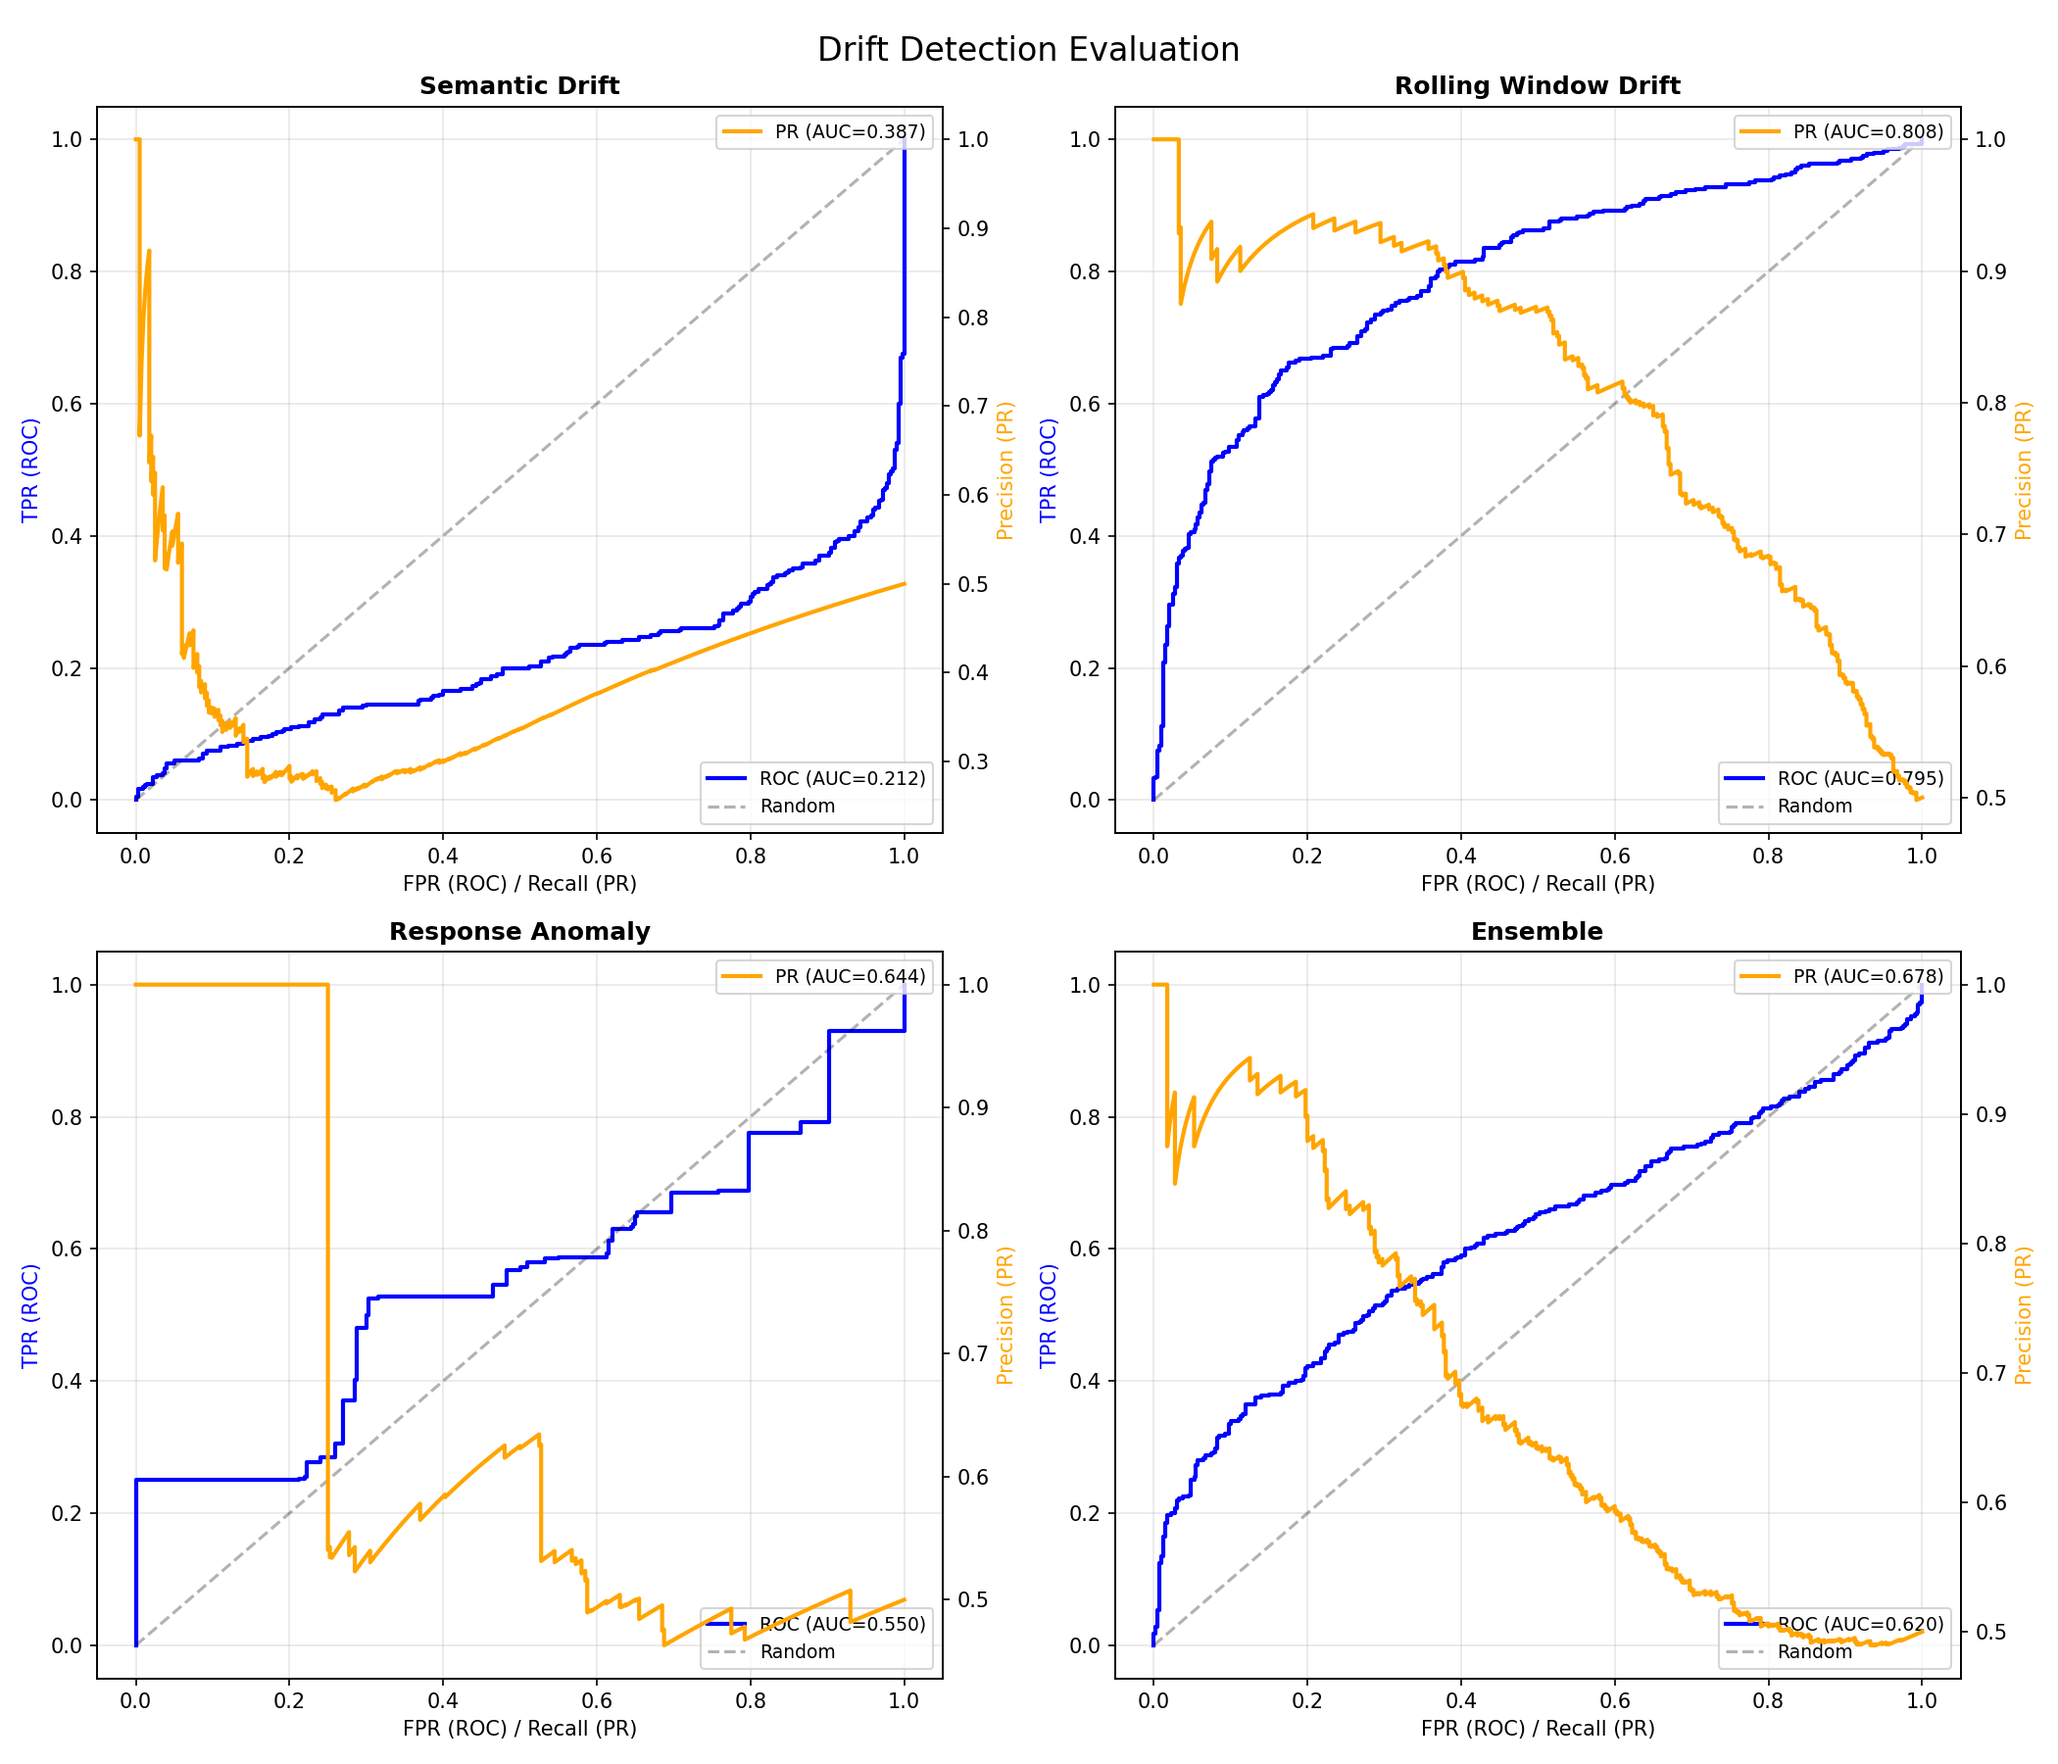
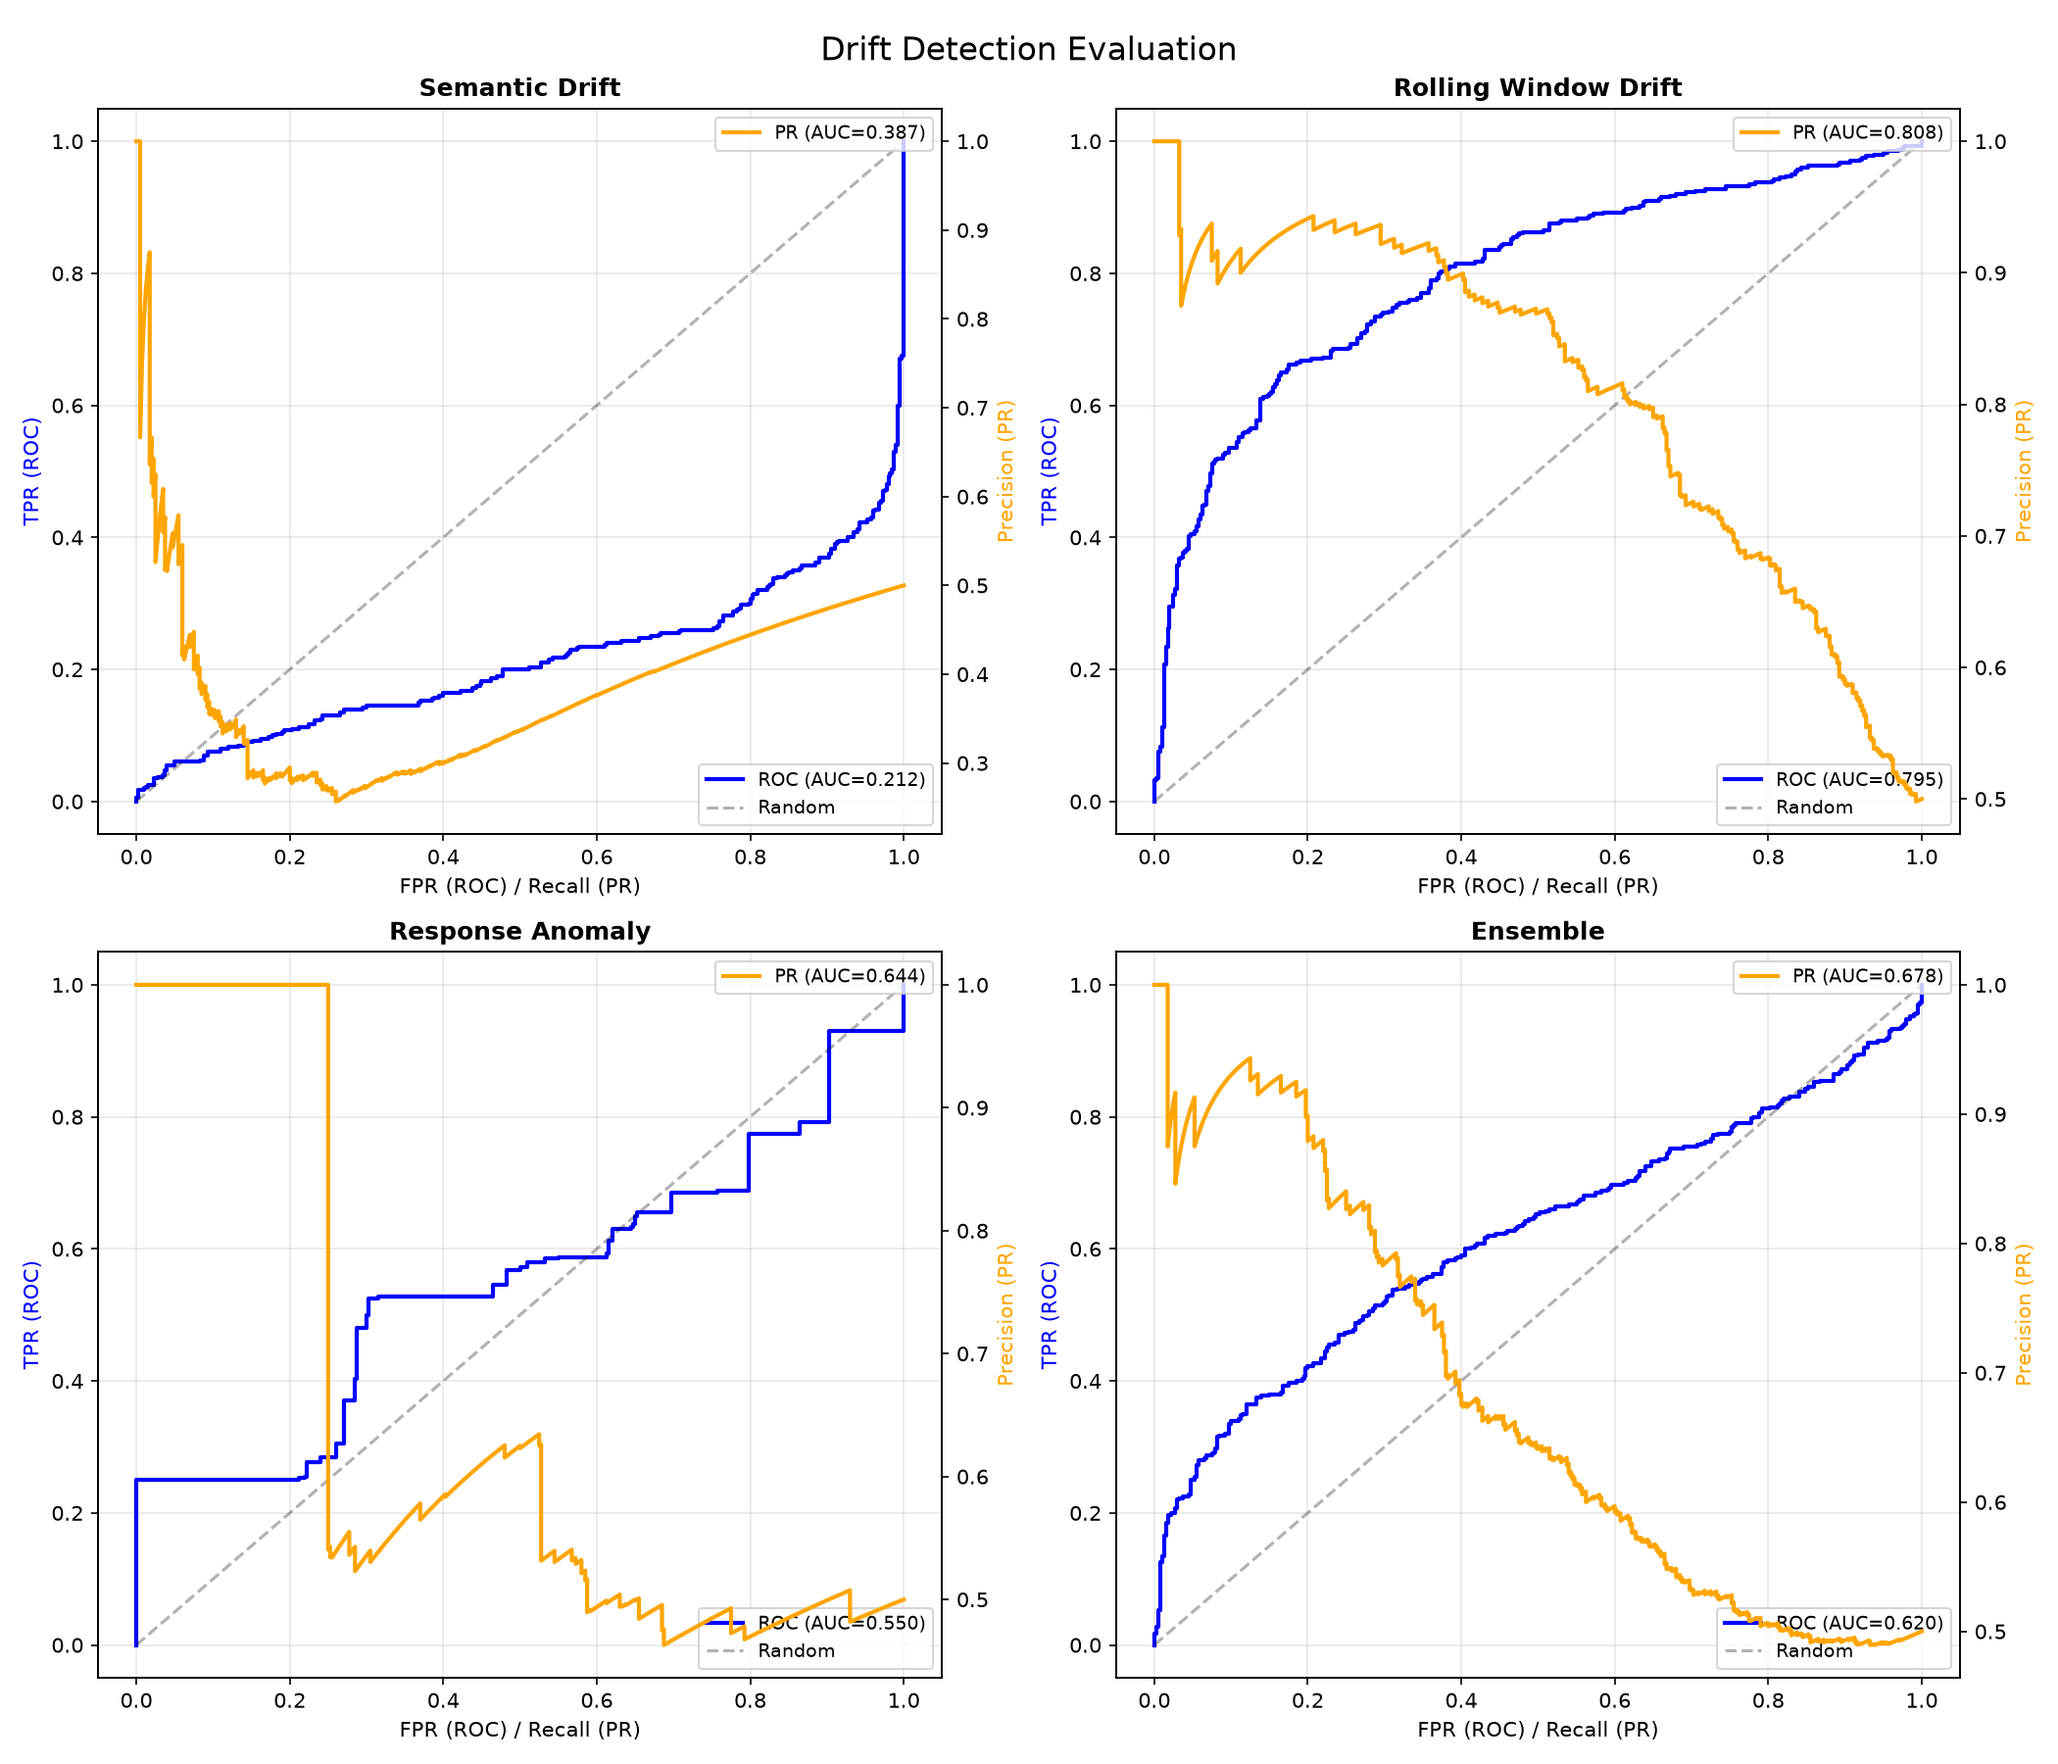
wrapping up the final updates

diff --git a/src/flows/__init__.py b/src/flows/__init__.py
@@ -88,20 +88,25 @@ def save_metrics(scores_list: list) -> int:
             is_drifted = scores.pop("is_drifted")
             drift_turn_index = scores.pop("drift_turn_index")
 
-            # Determine if drift was detected
-            ensemble_score = scores["ensemble_score"]
+            # Determine if drift was detected. Scores come back as numpy
+            # scalars (e.g. numpy.float32) from the detectors; psycopg2 can't
+            # adapt those directly, so cast to native Python types first.
+            ensemble_score = float(scores["ensemble_score"])
             drift_detected = ensemble_score >= DRIFT_THRESHOLD
+            detected_drift_index = scores.get("rolling_window_drift_index")
+            if detected_drift_index is not None:
+                detected_drift_index = int(detected_drift_index)
 
             # Create metric record
             metric = Metric(
                 id=str(uuid.uuid4()),
                 conversation_id=conversation_id,
-                semantic_drift_score=scores["semantic_drift"],
-                rolling_window_drift_score=scores["rolling_window_drift"],
-                response_anomaly_score=scores["response_anomaly"],
+                semantic_drift_score=float(scores["semantic_drift"]),
+                rolling_window_drift_score=float(scores["rolling_window_drift"]),
+                response_anomaly_score=float(scores["response_anomaly"]),
                 ensemble_score=ensemble_score,
                 drift_detected=drift_detected,
-                detected_drift_index=scores.get("rolling_window_drift_index"),
+                detected_drift_index=detected_drift_index,
             )
 
             db.add(metric)
